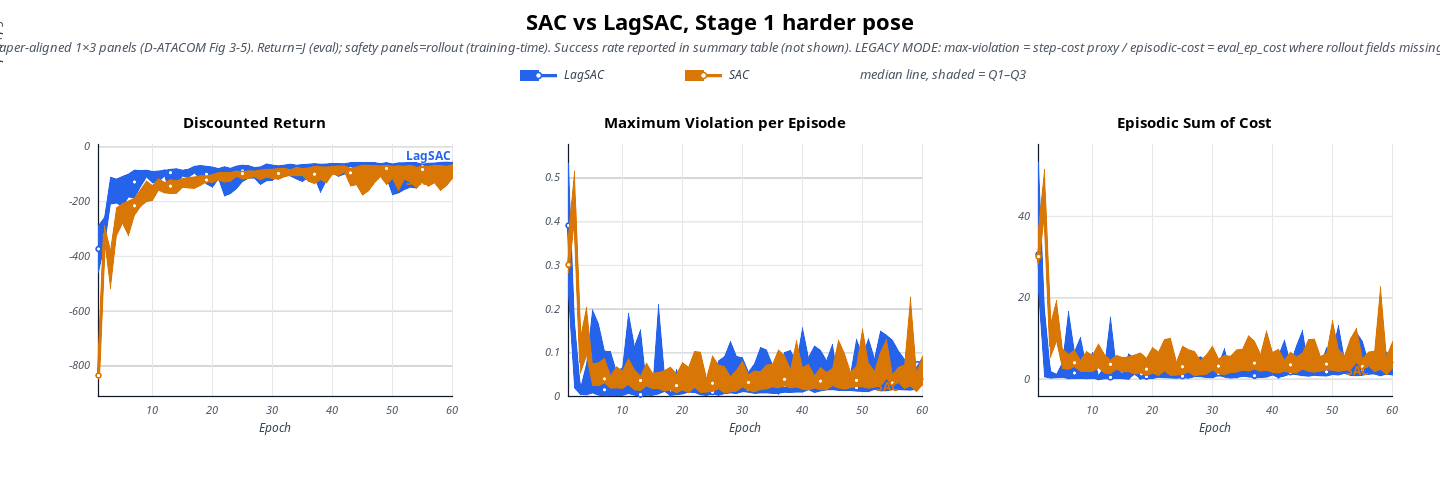
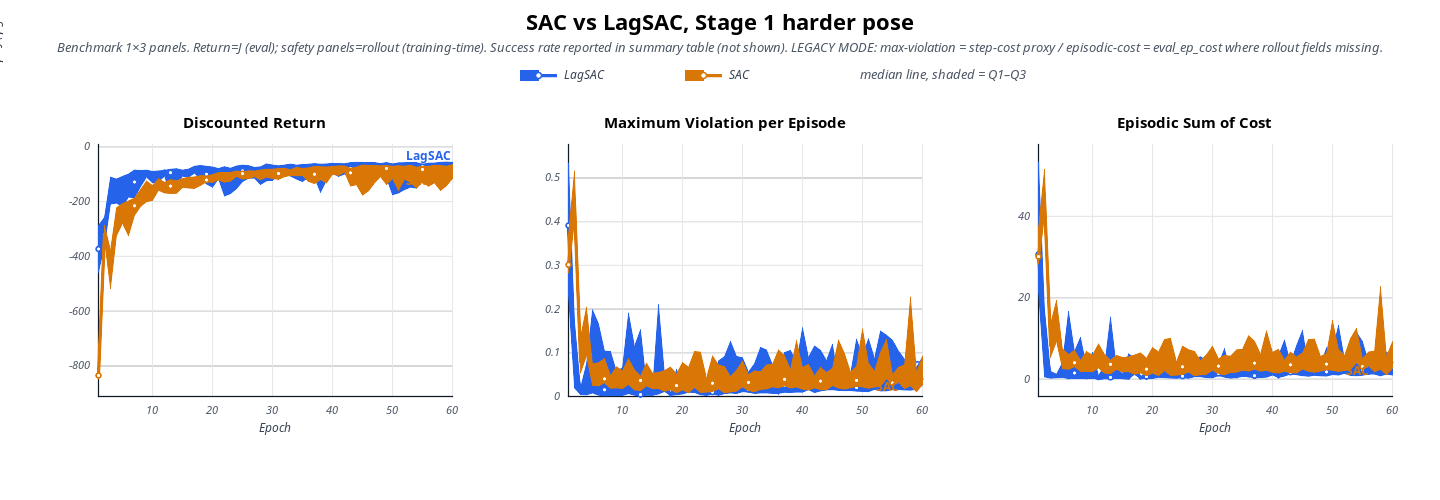
rewrite README

Changed region(s): [[0.0, 0.09, 1.0, 0.12]]

diff --git a/README.md b/README.md
@@ -1,18 +1,18 @@
-# Bimanual Peg-in-Hole — SAC vs Lagrangian SAC under D-ATACOM-style Safety
+# Bimanual Peg-in-Hole: SAC vs Lagrangian SAC Safety Benchmark
 
-A reproducible benchmark of an unconstrained baseline (**SAC**) against a CMDP
-constrained method (**Lagrangian SAC**) on a dual-arm IsaacSim peg-in-hole
-task. The two algorithms share the **same** environment, **same** task reward,
-and **same** hard-absorbing safety guards; the only difference is LagSAC's
-cost critic and Lagrangian multiplier λ. Paper-style reporting follows
-[D-ATACOM (Günster *et al.*, CoRL 2024)](https://arxiv.org/abs/2409.12045):
-1×3 learning curves of **Discounted Return** / **Maximum Violation per
-Episode** / **Episodic Sum of Cost**, plus a robust median + IQR aggregation.
+This repository trains two KUKA iiwa arms in Isaac Sim to solve a bimanual
+peg-in-hole task, then benchmarks an unconstrained baseline (**SAC**) against a
+constrained variant (**Lagrangian SAC**). Both algorithms share the **same**
+environment, **same** task reward, and **same** hard-absorbing safety guards;
+the only algorithmic difference is LagSAC's cost critic and Lagrangian
+multiplier λ. The benchmark reports 1×3 learning curves of **Discounted
+Return** / **Maximum Violation per Episode** / **Episodic Sum of Cost**, with a
+robust median + IQR aggregation across seeds.
 
 > [!NOTE]
-> This is a research / course-level reproduction, **not** an accepted paper.
-> The cited D-ATACOM work is the reference for the safety formulation and the
-> evaluation metrics; the LagSAC implementation here is independent.
+> This README describes the current verified project path: the Stage 1 SAC vs
+> LagSAC safety benchmark, plus the 3-stage geometric curriculum that proves the
+> peg-in-hole task is learnable end to end.
 
 <table>
 <tr>
@@ -65,7 +65,7 @@ A hybrid CMDP topology that separates the **continuous safety cost** (fed to
 | Component | Reward? | Cost? | Terminates? | Role |
 |---|:-:|:-:|:-:|---|
 | task geometry reward | ✓ | ✗ | ✗ | drives task |
-| arm-arm sphere-proxy clearance | ✗ | ✓ continuous | ✗ | D-ATACOM-style soft constraint |
+| arm-arm sphere-proxy clearance | ✗ | ✓ continuous | ✗ | soft clearance constraint |
 | arm/EE-table clearance | ✗ | ✓ continuous | ✓ | + soft cost + hard guard |
 | PhysX arm contact | cliff only | counted | ✓ | guard against suicide policy |
 
@@ -74,9 +74,9 @@ positive constraint (no clip). SAC sees the same env but ignores the cost;
 LagSAC's λ is driven by the **rollout** episode cost (not eval), updated as
 `Δlog λ = lr_λ · (cost − cost_limit)`.
 
-### Paper-style metrics (D-ATACOM Fig 3–5 alignment)
+### Benchmark metrics
 
-Per pose, a 1×3 learning-curve figure:
+Each benchmark pose is summarized with a 1×3 learning-curve figure:
 
 1. **Discounted Return** (eval, deterministic policy)
 2. **Maximum Violation per Episode** — mean over episodes of `max_t cost_t` (rollout)
@@ -138,7 +138,7 @@ scripts/
   train_sac_lagrangian.py      Lagrangian SAC entry
   rollout_cost_tracker.py      shared per-episode cost SUM + MAX tracker
   _eval_utils.py               eval / hold / geom / cost metrics
-  plot_paper_benchmark.py      1×3 paper figure + CSV (median+IQR default)
+  plot_paper_benchmark.py      1×3 benchmark figure + CSV (median+IQR default)
   analyze_overnight_paper.py   log → benchmark report
   visualize_policy.py          policy rollout viewer (X11)
   record_geom_video.py         standalone offscreen MP4 recorder (Replicator)
@@ -215,7 +215,7 @@ A full 10-seed paired benchmark template:
 A Stage 3 calibration template:
 [`scripts/run_stage3_100ep.sh`](scripts/run_stage3_100ep.sh).
 
-### Reproducing the paper figure
+### Reproducing the benchmark figure
 
 ```bash
 # from log files written by the runs above
@@ -295,23 +295,6 @@ General invariants:
   truncation quirk — see [`scripts/train_sac_lagrangian.py`](scripts/train_sac_lagrangian.py) header).
 - Stage 3 insertion requires `exclude_ee_from_physx_self_collision: true`.
 - Judge Stage 3 only after ≥ 80 epochs (SAC v8 typically breaks through at ep ~74).
-
----
-
-## Citation
-
-This repository is not itself a paper. Please cite the D-ATACOM reference if
-you use this codebase or the metric design:
-
-```bibtex
-@inproceedings{gunster2024datacom,
-  title  = {Handling Long-Term Safety and Uncertainty in Safe Reinforcement Learning},
-  author = {Günster, Jonas and Liu, Puze and Peters, Jan and Tateo, Davide},
-  booktitle = {Conference on Robot Learning (CoRL)},
-  year   = {2024},
-  url    = {https://arxiv.org/abs/2409.12045}
-}
-```
 
 ---
 
